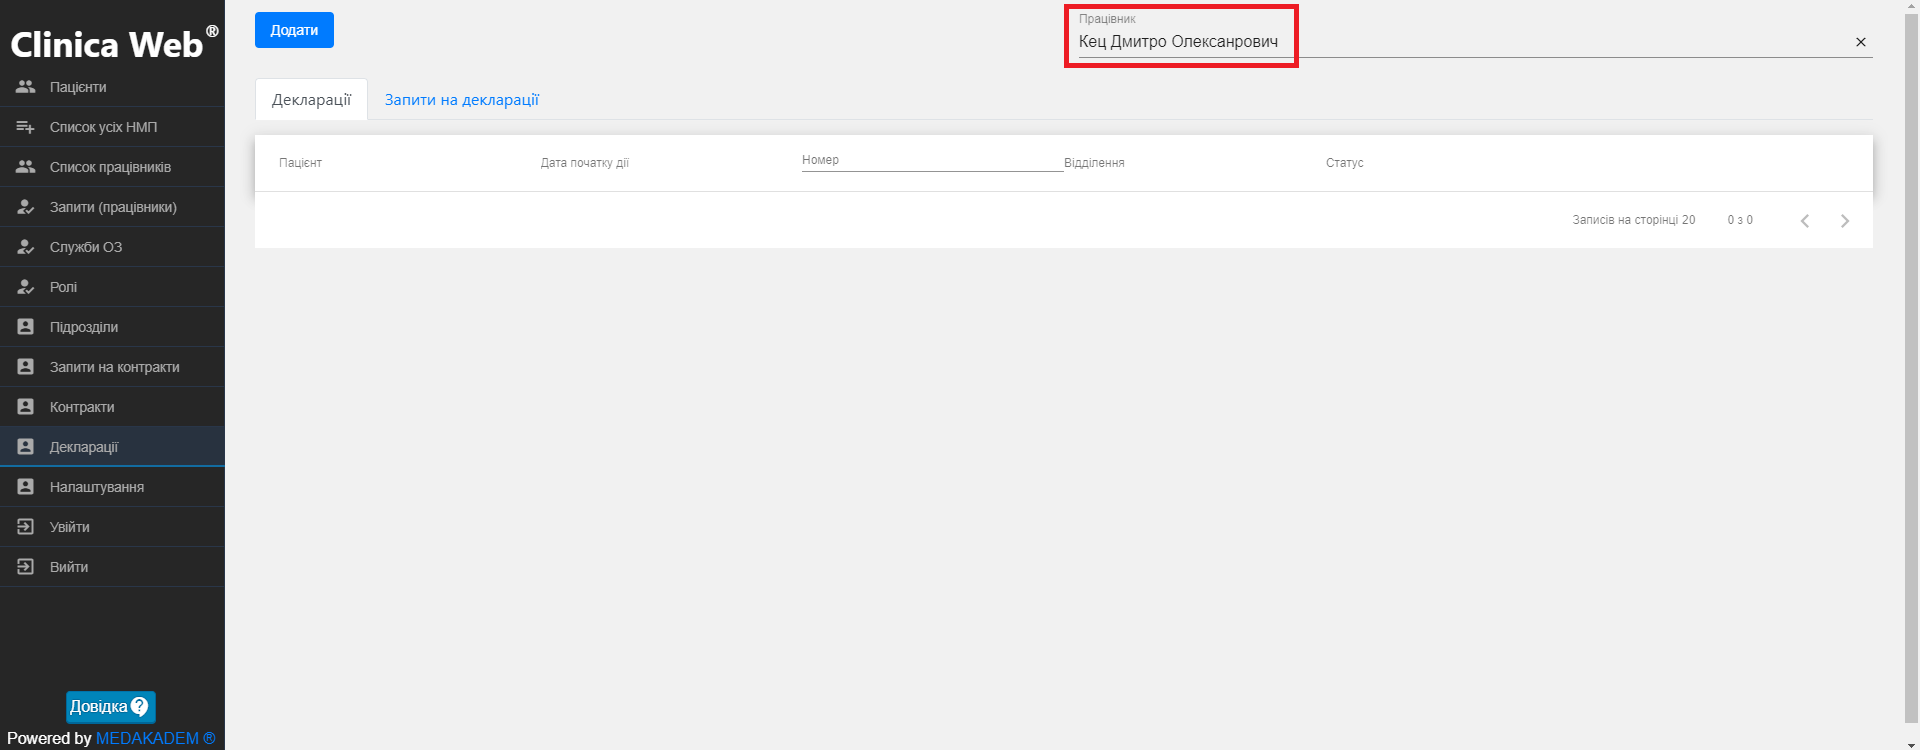
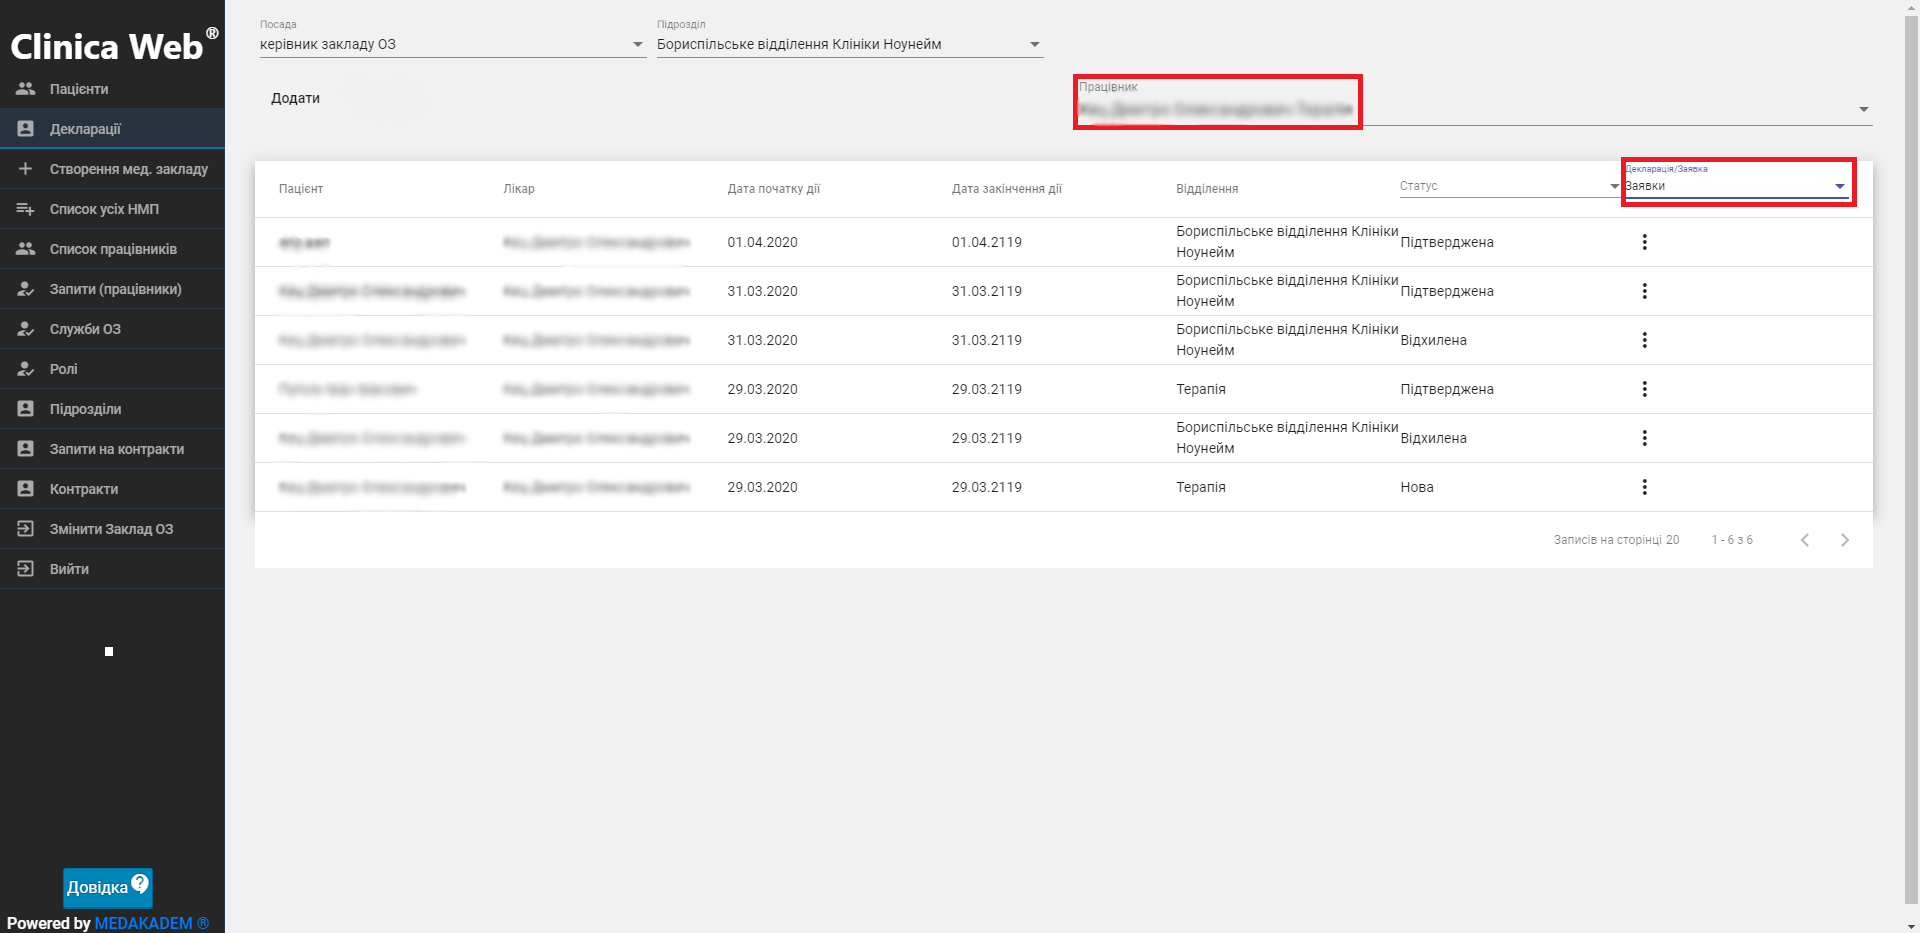
add info declarations

diff --git a/declarations.md b/declarations.md
@@ -11,23 +11,35 @@
 
 1. В меню зліва оберіть пункт Декларації.
 
-2. Оберіть працівника. В залежності від обраного працівника буде відображатися список створених декларацій. Також після обрання працівника активується кнопка додання нової декларації.
+2. Оберіть працівника. В залежності від обраного працівника буде відображатися список поданих заявок та створених декларацій(вибір в шапці таблиці). 
 ![](./images/declarations/dec1.png)
 3. Клацніть на кнопку Додати. Для створення нової декларації виконайте наступні кроки:
     - Введіть дані про пацієнта - його ПІБ, стать, дату народження, місце народження. За потреби введіть електронну адресу та номер мобільного телефону. Зазначте також ідентифікаційний код або код паспорта, документ, що посвідчує особу як громадянина; слово пароль для авторизації пацієнта.![](./images/declarations/dec2.png)
     - Заповніть дані по адресі реєстрації пацієнта.![](./images/declarations/dec3.png)
-    - Оберіть бажаний спосіб авторизації - через СМС чи через верифікацію документів. В першому випадку введіть номер телефону пацієнта, натисніть Відправити код підтвердження та уведіть код, який прийшов пацієнту.![](./images/declarations/dec4.png)
+    - Оберіть бажаний спосіб авторизації - через СМС чи через верифікацію документів. В першому випадку введіть номер телефону пацієнта, натисніть Відправити код підтвердження та уведіть код, який прийшов пацієнту. В другому - після подання декларації необхідно завантажити документи.
+    ![](./images/declarations/dec4.png)
     - Введіть дані про довірену особу пацієнта - ПІБ та телефон.![](./images/declarations/dec5.png)
-    - Якщо створюється декларація на дитину, на 5му кроці активуйте поле Вводити дані законного працівника та заповніть необхідні поля: ПІБ, стать, дату і місце народження, слово пароль, телефон, дані про документ, що посвідчує довірену особу, а також про документ, що засвідчує довіреність особи.![](./images/declarations/dec6.png)    
+    - Якщо створюється декларація на дитину, на 5му кроці активуйте поле Вводити дані законного працівника та заповніть необхідні поля: ПІБ, стать, дату і місце народження, слово пароль, телефон, дані про документ, що посвідчує довірену особу, а також про документ, що засвідчує довіреність особи. Тут Ви можете додати довірену особу.![](./images/declarations/dec6.png)  
+    - Прочитайте пацієнту текст інформаційної згоди та при згоді пацієнта, встановіть прапорець.  
 
-Тут Ви можете додати довірену особу.
+
 Щоб зберегти введені дані і створити декларацію, клацніть Підтвердити та створити.
 
-Заявку на створення декларації подано. Декларація відображається на вкладці Запити на декларації.
+Заявку на створення декларації подано. Декларація відображається на вкладці Декларації. Тепер необхідно підтвердити створення декларації.
+
+## Завантажити документи
+Якщо під час подання заявки на створення декларації як тип авторизації було вибрано верифікацію документів, то після подання запиту необхідно завантажити відповідні документи.   
+Для цього виконайте наступні дії:
+1. На вкладці меню Декларації знайдіть потрібну, вона буде відображатись зі статусом Нова. Клацніть на значок "три крапки", щоб відкрити меню дій. Тут виберіть Завантажити документи.
+2. Оберіть файли, які містять зображення необхідних документів.![](./images/declarations/dec7.png)
+
+## Підтвердити створення декларації
+1. На вкладці Декларації знайдіть потрібну. 
+2. Клацніть на значок "три крапки", щоб відкрити меню дій. Тут виберіть Підтведити.![](./images/declarations/dec8.png)
 
 ## Підписати декларацію
 
-1. На вкладці запити на декларації нова декларація відображається зі статусом Нова. Тут Ви можете завантажити необхідні для верифікації документи, якщо при створенні декларації був вибраний відповідний тип авторизації. Також роздрукувати текст декларації, якщо декларація верифікована.![](./images/declarations/dec7.png) 
-2. Підтвердіть декларацію.
-3. Далі доступні два варіанти - Відхилити декларацію або підписати її.
-4. Підписані декларації будуть відображатися на вкладці Декларації. Тут їх можна переглянути детальніше.![](./images/declarations/dec8.png)
+*Щоб підписати декларацію, необхідно отримати особистий ключ та пароль захисту ключа для накладання електронного цифрового підпису на електронний документ.*    
+1. На вкладці Декларації  клацніть на значок "три крапки", щоб відкрити меню дій. Тут виберіть Роздрукувати. Надайте роздруковану заявку пацієнту для підпису.
+2. Далі в тому ж меню декларацій оберіть Підписати.
+3. На сторінці Підписування декларації виконайте усі кроки. Підписана декларація стає активною і буде відображатись на вкладці Декларації - > при виборі у шапці таблиці декларації зі статусом Активна.

diff --git a/createLE.md b/createLE.md
@@ -1,6 +1,6 @@
 # Інструкція з реєстрації медичної установи
 
-Реєстрацію медичної установи здійснює представник Медичної інформаційної системи (Користувач МІС), попередньо зареєстрованої у системі eHealth.     
+Реєстрацію медичної установи може здійснити представник Медичної інформаційної системи, попередньо зареєстрованої у системі eHealth. Також це може зробити власник або уповноважена особа, клацнувши на головному екрані порталу Medakadem для E-health варіант Створити Заклад Охорони здоров'я.   
 
 <div style="border: 1px solid red; margin-left: 20px; padding-left: 5px">
 <b>Важлива інформація!</b>   
@@ -14,7 +14,7 @@
 
 Виконайте наступні кроки для реєстрації медичної установи в системі EHealth:   
 
-1. В меню зліва клацніть "Створення мед.закладу" для створення нової медичної установи.
+1. Оберіть на головному екрані порталу Medakadem для E-health варіант Створити Заклад Охорони здоров'я.
 
 1. Заповніть необхідні поля з даними про керівника :
 - оберіть посаду; 
@@ -45,6 +45,7 @@
 5. На вкладці Ліцензія введіть необхідні дані про ліцензію медичної установи, а потім клацніть Далі, щоб перейти на наступну вкладку.
 ![](./images/createLE/LE5.png)
 6. На вкладці Підтвердження реєстрації пройдіть усі кроки:
+- встановіть прапорець біля згоди з обробкою персональних данних;
 - клацніть на кнопку Завантажити файл на комп'ютер та виберіть шлях збереження;
 - після проходження першого кроку з'явиться кнопка Перейти на сайт для підписання - клацніть на цю кнопку, тоді відкриється сайт онлайн-сервісу створення кваліфікованого електронного підпису на електронні документи;
 - оберіть тип носія Файловий носій, кваліфікованого надавача ел. довірчих послуг визначити автоматично, в наступному полі оберіть з комп'ютера файл з ключем та введіть пароль захисту ключа;
@@ -52,7 +53,7 @@
 - оберіть файл для підписання, який було завантажено на комп'ютер після виконання першого кроку, та клацніть Підписати;
 - у новому вікні клацніть Завантажити;
 - поверніться на сторінку підтвердження реєстрації і в третьому кроці завантажте в систему підписаний файл;
-- встановіть прапорець біля згоди з обробкою персональних данних та натисніть Відправити.   
+- натисніть Відправити.   
 ![](./images/createLE/LE6.png)
 Після успішної реєстрації з'явиться повідомлення про це і на Вашу електронну пошту прийде запрошення до співпраці з eHealth.   
 7. Увійдіть до особистої поштової скриньки та перейдіть за посиланням, яке Ви отримали в листі від системи eHealth.   
@@ -64,10 +65,6 @@
 
 За умови успішного підтвердження з'явиться повідомлення про прийняте запрошення, а на електронну скриньку надійде лист від eHealth про успішну реєстрацію в системі.
 
-9. Поверніться на сторінку модуля eHealth від Medakadem. У вікні вибору установи клацніть назву Вашої установи.
-
-10. На сторінці входу в систему eHealth у полі Логін введіть Вашу електронну адресу, у полі Пароль введіть пароль, створений на веб-сторінці системи eHealth, а потім клацніть Увійти. На сторінці перегляду прав на дії керівника медичної установи в системі eHealth клацніть Прийняти та продовжити.
-
-Реєстрацію в системі eHealth підтверджено. Зареєстрована установа відображається на панелі Підключені НМП.
+Зареєстрована установа відображається на панелі Підключені НМП.
 
 Ви можете продовжити роботу на сторінці модуля eHealth і зареєструвати відділення установи та <a href="./createEmployee">працівників відділення</a>.
